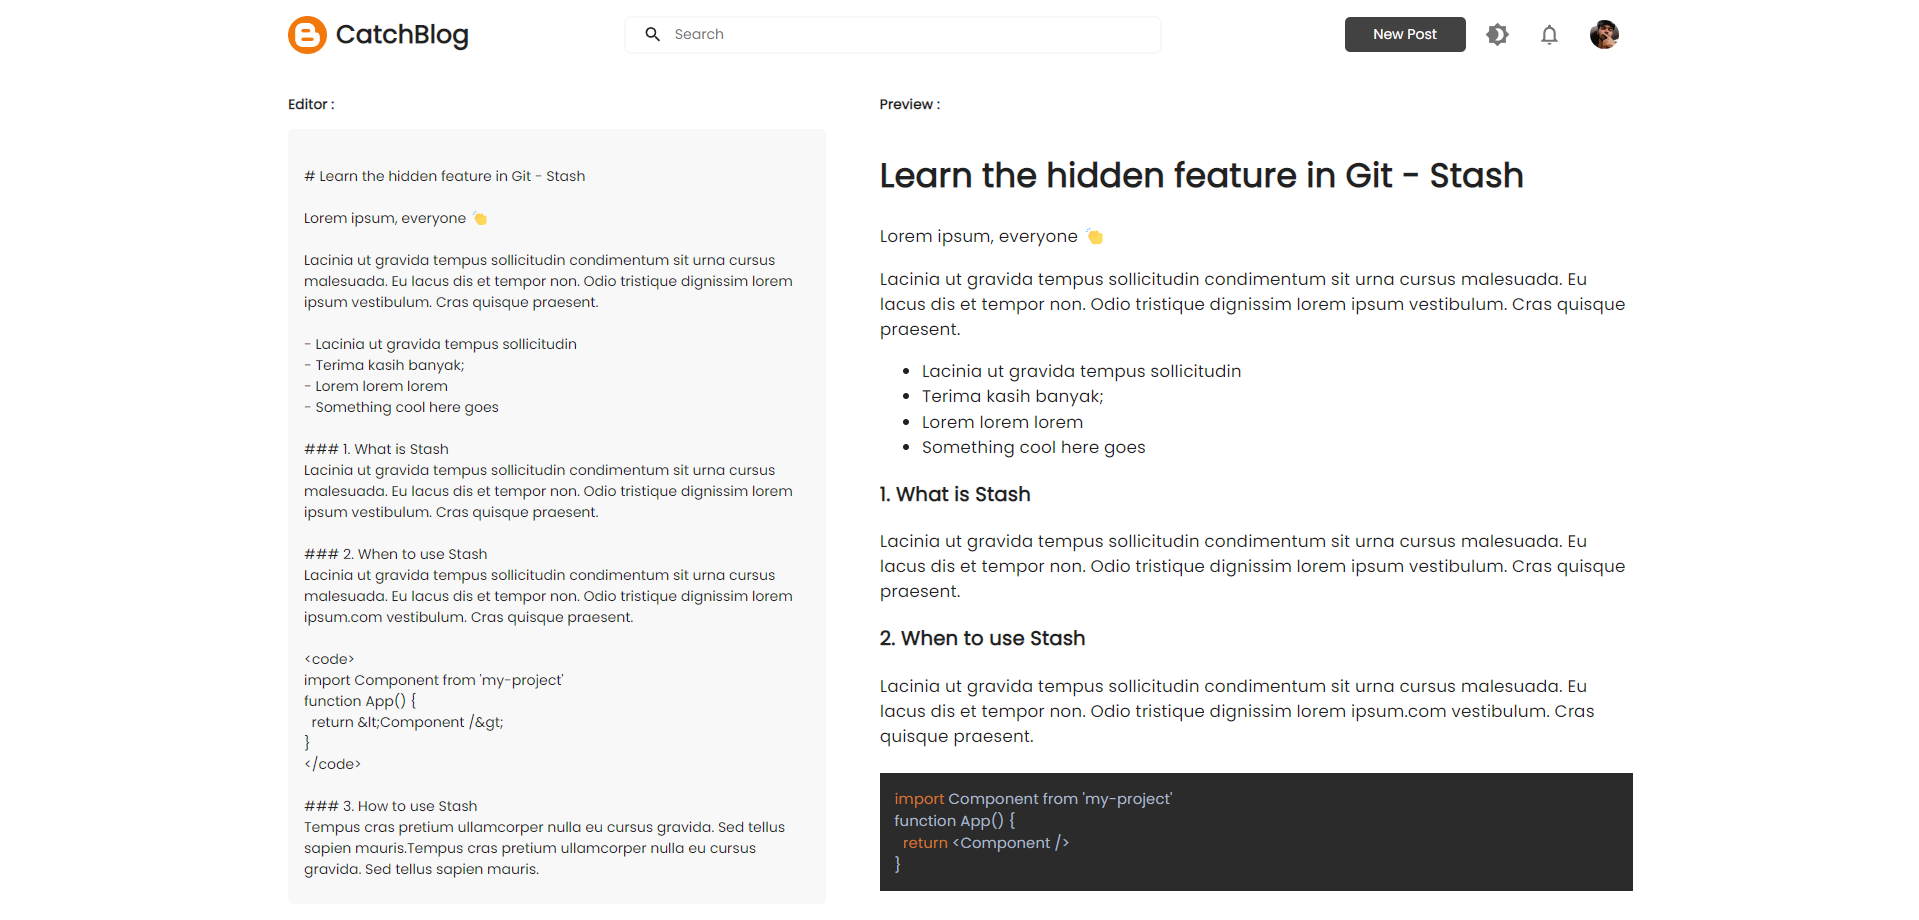
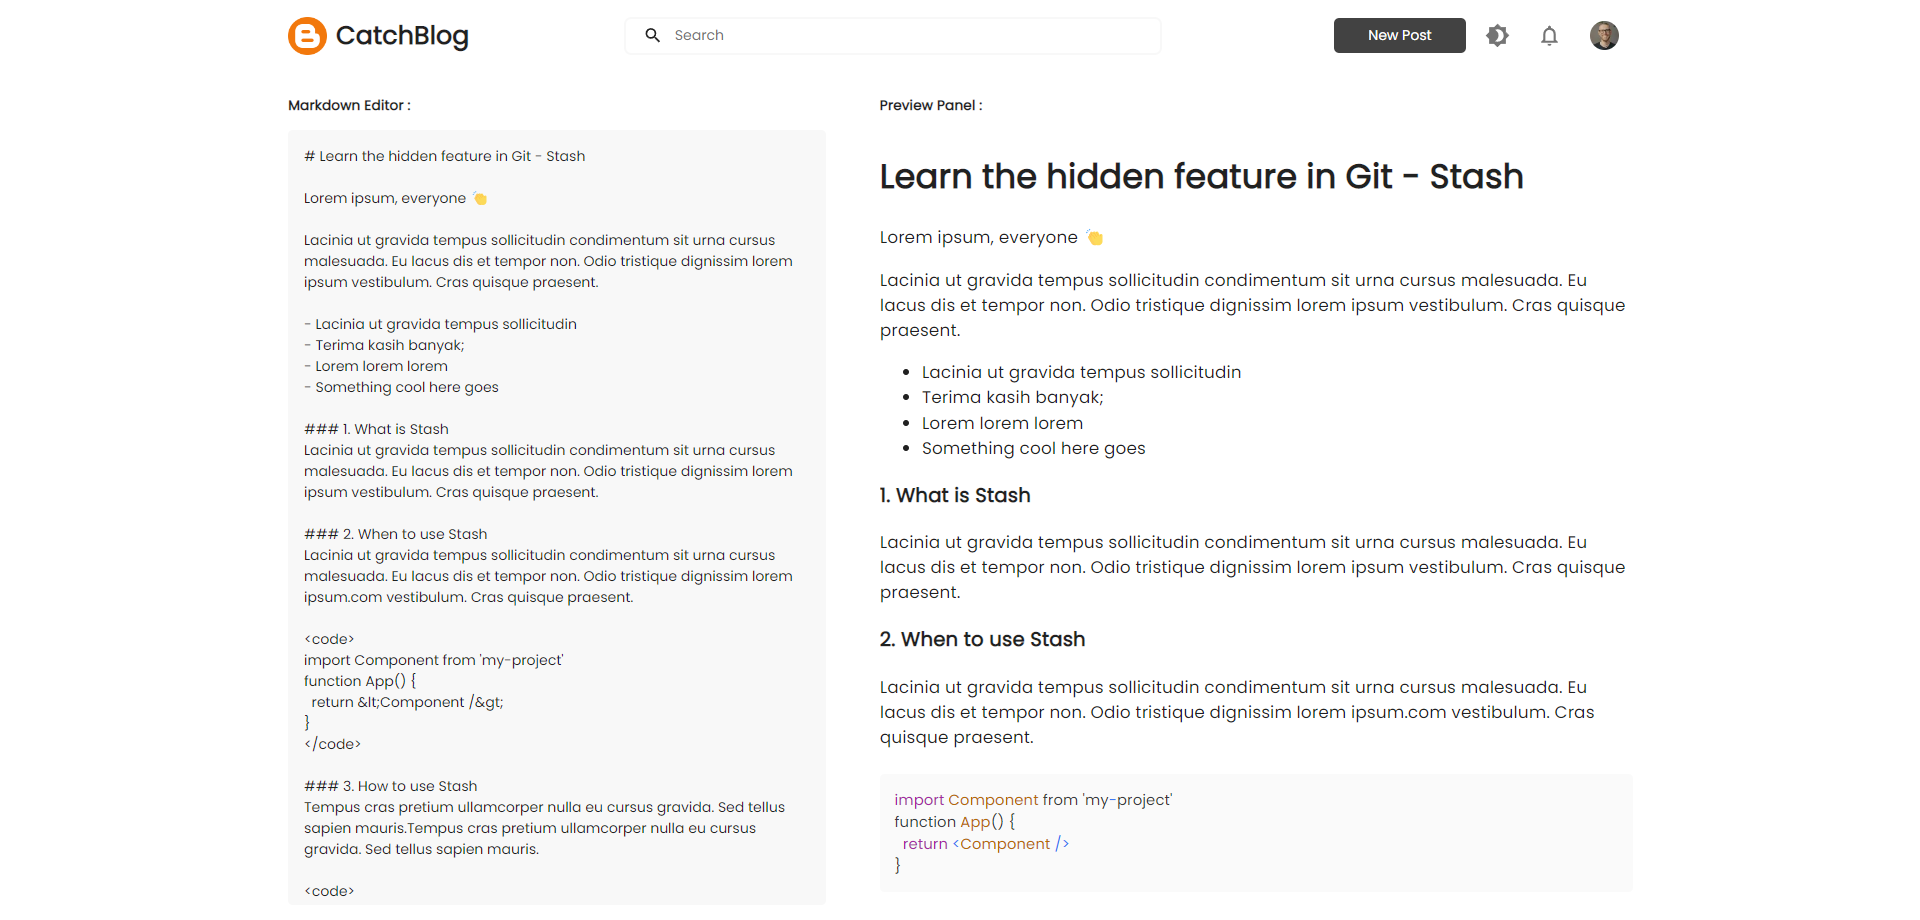
oneLight theme to codes when toggled to light

diff --git a/client/src/components/Syntax.js b/client/src/components/Syntax.js
@@ -1,12 +1,15 @@
 import { useState } from "react";
 import { Prism as SyntaxHighlighter } from 'react-syntax-highlighter';
-import { darcula} from 'react-syntax-highlighter/dist/esm/styles/prism';
+import { darcula,oneLight} from 'react-syntax-highlighter/dist/esm/styles/prism';
+import { AppContext } from "../App";
+import { useContext } from 'react';
 
 export const Syntax = (props) => {
+    const context = useContext(AppContext)
     const [state] = useState(props.children[0])
     return (
         <div style={{borderRadius:'5px',overflow:'hidden',fontSize:'14px',fontFamily:'Fira Code'}}>
-            <SyntaxHighlighter language='java' style={darcula}>
+            <SyntaxHighlighter language='java' style={context.dark?darcula:oneLight}>
                 {state}
             </SyntaxHighlighter>
         </div>

diff --git a/server/routes/post.js b/server/routes/post.js
@@ -36,7 +36,7 @@ router.get('/allpost', async (req, res) => {
                 limit: limit,
             };
         }
-        if (endIndex < (await BlogPostModel.countDocuments().exec())) {
+        if (endIndex < (await BlogPostModel.countDocuments())) {
             result.next = {
                 pageNumber: pageNumber + 1,
                 limit: limit,
